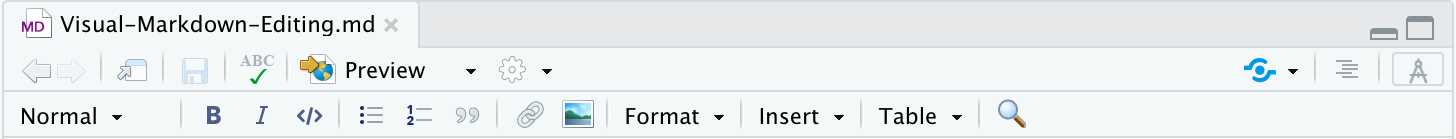
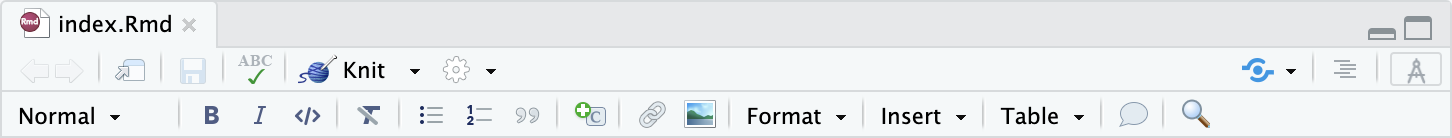
doc updates

diff --git a/docs/index.html b/docs/index.html
@@ -226,6 +226,12 @@ div.tocify {
   border-radius: 0px;
 }
 
+.tocify-subheader {
+  display: inline;
+}
+.tocify-subheader .tocify-item {
+  font-size: 0.95em;
+}
 
 </style>
 
@@ -276,15 +282,40 @@ div.tocify {
 <h2>Getting Started</h2>
 <p>Visual markdown editing is currently only available in the daily build of RStudio v1.4. You can download the most recent daily build here: <a href="https://dailies.rstudio.com" class="uri">https://dailies.rstudio.com</a>.</p>
 <p>Visual markdown editing is not available by default. To enable it, use the <strong>R Markdown</strong> tab of RStudio Preferences:</p>
-<p><img src="images/visual-editing-pref.png" style="border: 1px solid rgb(230, 230, 230);" width="588" /></p>
-<p>Once you’ve enabled visual editing, you can switch between source and visual mode using the button at the top-right of the document toolbar. There is also a keyboard shortcut (<strong>Ctrl+Shift+F8</strong>) that can be used to switch modes:</p>
+<p><img src="images/visual-editing-pref.png" class="illustration" width="588" /></p>
+<p>Once you’ve enabled visual editing, you can switch between source and visual mode using the button at the top-right of the document toolbar (there is also a keyboard shortcut, <strong>Ctrl+Shift+F8</strong>, that can be used to switch modes):</p>
 <p><img src="images/visual-editing.png" width="700" /></p>
-<p>The visual editor includes it’s own toolbar with markdown editing commands. Check out the <strong>Format</strong>, <strong>Insert</strong>, and <strong>Table</strong> menus to see the various supported commands.</p>
 </div>
-<div id="markdown-shortcuts" class="section level2">
-<h2>Markdown Shortcuts</h2>
-<p>In addition to using the editing toolbar, you can also use markdown syntax directly. When the editor sees markdown shortcuts it automatically applies the associated formatting. Note that if you didn’t intend this, you can use backspace to revert the applied formatting.</p>
-<p>There are also keyboard shortcuts available for several commands. Here are the keyboard and markdown shortcuts currently supported (note that you should substitute Cmd for Ctrl on Mac systems):</p>
+<div id="editing-basics" class="section level2">
+<h2>Editing Basics</h2>
+<p>Visual mode has direct editing support for all of Pandoc markdown. Standard formatting commands (headings, bold, italic, etc.) work just the way they do in a conventional word-processor. You can access editing commands using either the toolbar or via shortcuts.</p>
+<div id="editor-toolbar" class="section level3">
+<h3>Editor Toolbar</h3>
+<p>The editor toolbar includes buttons for the most commonly used formatting commands:</p>
+<p><img src="images/visual-editing-toolbar.png" width="700" /></p>
+<p>Additional commands are available on the Format, Insert, and Table menus:</p>
+<table>
+<thead>
+<tr class="header">
+<th>Format</th>
+<th>Insert</th>
+<th>Table</th>
+</tr>
+</thead>
+<tbody>
+<tr class="odd">
+<td><img src="images/visual-editing-format-menu.png" width="217" /></td>
+<td><img src="images/visual-editing-insert-menu.png" width="217" /></td>
+<td><img src="images/visual-editing-table-menu.png" width="217" /></td>
+</tr>
+</tbody>
+</table>
+</div>
+<div id="editor-shortcuts" class="section level3">
+<h3>Editor Shortcuts</h3>
+<p>In addition to using the toolbar, you can also use markdown syntax directly. When the editor sees markdown shortcuts it automatically applies the associated formatting.</p>
+<p>For example, enclose <code>**bold**</code>text in asterisks or type <code>##</code> and press enter to create a second level heading. Note that if you didn’t intend this, you can use backspace to revert the applied formatting.</p>
+<p>There are also keyboard shortcuts available for several commands. Here are the currently supported shortcuts (note that you should substitute Cmd for Ctrl on Mac systems):</p>
 <table>
 <thead>
 <tr class="header">
@@ -401,17 +432,10 @@ div.tocify {
 </tr>
 </tbody>
 </table>
+</div>
 <div id="typography" class="section level3">
 <h3>Typography</h3>
 <p>Most markdown formats support smart typography, which causes straight quotes to be interpreted as curly quotes, – as en-dashes, — as em-dashes, and … as ellipses. Visual mode supports these same transformations (so when you type — it becomes an em-dash). If you didn’t intend for this transformation to occur just hit backspace and it will be reverted.</p>
-</div>
-</div>
-<div id="markdown-editing" class="section level2">
-<h2>Markdown Editing</h2>
-<p>Visual mode has direct editing support for all of Pandoc markdown. Standard formatting commands (headings, bold, italic, etc.) work just the way they do in a conventional word-processor. This section covers how to include more advanced Pandoc markdown constructs.</p>
-<div id="table-editor" class="section level3">
-<h3>Table Editor</h3>
-<!--# TODO: create a table section -->
 </div>
 <div id="citations-footnotes" class="section level3">
 <h3>Citations &amp; Footnotes</h3>
@@ -427,14 +451,31 @@ div.tocify {
 <p><img src="images/visual-editing-raw.png" width="700" /></p>
 <p>You can also include inline and block raw content of any output format supported by Pandoc (e.g. html, rtf or openxml) using the commands on the <strong>Format -&gt; Raw</strong> menu</p>
 </div>
-<div id="comments" class="section level3">
-<h3>Comments</h3>
-<!--# TODO: create a comments section -->
+<div id="pandoc-attributes" class="section level3">
+<h3>Pandoc Attributes</h3>
+<p>Several of Pandoc’s block types (e.g. headings, code blocks, and divs) enable you to specify a set of <a href="https://pandoc.org/MANUAL.html#heading-identifiers">custom attributes</a>. Attributes include IDs, class names, as well as arbitrary key-value pairs that are passed through to output formats (e.g. as attributes for HTML tags). For these block types, an edit button will appear at the the top right when your cursor is within the block:</p>
+<p><img src="images/visual-editing-attributes.png" width="700" /></p>
+<p>Note that any ID as well as the first class specified within the attributes are also displayed. Click the edit button or use the <strong>F4</strong> keyboard shortcut to edit the attributes.</p>
 </div>
+<div id="review-commenting" class="section level3">
+<h3>Review &amp; Commenting</h3>
+<p>When reviewing an R Markdown document you often want to provide inline comments with suggested revisions. This is possible in R Markdown using HTML comments (which are ignored by all output formats). Visual mode includes a command for inserting HTML comments as well as special highlighting treatment to easily parse out editing comments from surrounding text.</p>
+<p><img src="images/visual-editing-comment.png" width="700" /></p>
+<p>You can insert an HTML comment using the Comment button on the toolbar or via the <strong>Ctrl+Shift+C</strong> keyboard shortcut. Remember, HTML comments won’t show up in rendered output so they are ideal both for review but also for leaving yourself to-do notes within a document.</p>
+<!--
+## Bookdown & Blogdown
+
+The [bookdown](https://bookdown.org) package includes markdown extensions for cross-references and part headers. The [blogdown](https://bookdown.org/yihui/blogdown/) package also suports markdown cross-references along with Hugo shortcodes. It's also possible to use blogdown with an [alternate](https://bookdown.org/yihui/blogdown/output-format.html) markdown engine (as opposed to using Pandoc). This section describes visual mode
+
+Bookdown & Blogdown docs:
+  - Math in code
+  - @ref has no \
+  - Hugo shortcodes
+  - Heading parts (need to explicitly use .unnumbered and don't use the \* escape)
+  - Using blackfriday explicitly
+  - Setting the doctype(s) explicitly (should xref be a doctype or should it be distill)
+-->
 </div>
-<div id="bookdown-blogdown" class="section level2">
-<h2>Bookdown &amp; Blogdown</h2>
-<!--# TODO: bookdown and blogdown section -->
 </div>
 <div id="document-navigation" class="section level2">
 <h2>Document Navigation</h2>
@@ -454,9 +495,9 @@ div.tocify {
 <p>Visual mode uses a content width and font size generally comfortable for writing (similar to that of Google Docs). You can adjust the maximum content width (by default it’s 700 pixels) as well as the font size (by default the same as the IDE) within the <strong>R Markdown -&gt; Advanced</strong> preferences.</p>
 </div>
 </div>
-<div id="markdown-formats" class="section level2">
-<h2>Markdown Formats</h2>
-<p>Visual editing mode generates markdown using Pandoc. This means that in some cases your markdown will be <em>rewritten</em> to conform to standard Pandoc idioms. For example, Pandoc writes 3 spaces after list bullets, and automatically escapes characters that might be used for markdown syntax.</p>
+<div id="markdown-conversion" class="section level2">
+<h2>Markdown Conversion</h2>
+<p>Visual editing mode generates markdown using Pandoc. This means that in some cases your markdown will be <em>rewritten</em> to conform to standard Pandoc idioms. For example, Pandoc writes footnotes at the end of the document, inserts 3 spaces after list bullets, and automatically escapes characters that might be used for markdown syntax.</p>
 <p>While this might be bothersome at first, if you decide that visual editing mode is useful for your workflow it’s probably best to just adapt to writing your own markdown the same way that Pandoc does. If any of Pandoc’s idioms are particularly troublesome, <a href="https://github.com/rstudio/rstudio/issues/new">let us know</a> and we’ll see if we can add an option to override the default behavior.</p>
 <div id="modes-extensions" class="section level3">
 <h3>Modes &amp; Extensions</h3>
@@ -476,6 +517,7 @@ div.tocify {
 <p>RStudio can generally detect which type of document is being edited and enable the requisite extensions. In the case that this doesn’t work as expected, you can specify a <code>doctype</code> in the format comment to make it explicit. For example:</p>
 <pre><code>&lt;!-- -*- doctype: blogdown -*- --&gt;</code></pre>
 <p>Available doctypes include <code>xref</code>, <code>bookdown</code>, <code>blogdown</code>, and <code>hugo</code> (you can specify more than one doctype by separating them with commas). The <code>xref</code> doctype specifies any document that supports bookdown cross-references (e.g. distill) and is implied by the <code>bookdown</code> and <code>blogdown</code> doctypes. The <code>hugo</code> doctype indicates a document that supports Hugo shortcodes, and is also implied by the <code>blogdown</code> doctype.</p>
+<p>Again, you typically don’t need to use an explicit <code>doctype</code>, since RStudio can generally automatically detect this based on the type of your current project.</p>
 </div>
 <div id="line-wrapping" class="section level3">
 <h3>Line Wrapping</h3>
@@ -485,8 +527,8 @@ div.tocify {
 <p>Note that there are some disadvantages to setting a <code>fill-column.</code> First, editing paragraphs in source mode will be less convenient (because line wrapping will need to done manually). Second, tables with many explicitly sized columns (more than 10 or so) may be written by Pandoc as HTML rather than markdown.</p>
 </div>
 </div>
-<div id="limitations" class="section level2">
-<h2>Limitations</h2>
+<div id="known-limitations" class="section level2">
+<h2>Known Limitations</h2>
 <p>There are a handful of Pandoc markdown extensions not currently supported by visual editing. These are infrequently used extensions so in all likelihood won’t affect documents you edit, but are still worth noting.</p>
 <table>
 <thead>
@@ -587,7 +629,7 @@ $(document).ready(function ()  {
       ignoreSelector: ".toc-ignore",
       scrollTo: 0
     };
-    options.showAndHide = true;
+    options.showAndHide = false;
     options.smoothScroll = true;
 
     // tocify

diff --git a/docs/styles.css b/docs/styles.css
@@ -8,3 +8,7 @@ p > img:only-child {
   margin-top: 8px;
   margin-bottom: 8px;
 }
+
+.illustration {
+  border: 1px solid rgb(230, 230, 230);
+}

diff --git a/styles.css b/styles.css
@@ -8,3 +8,7 @@ p > img:only-child {
   margin-top: 8px;
   margin-bottom: 8px;
 }
+
+.illustration {
+  border: 1px solid rgb(230, 230, 230);
+}
